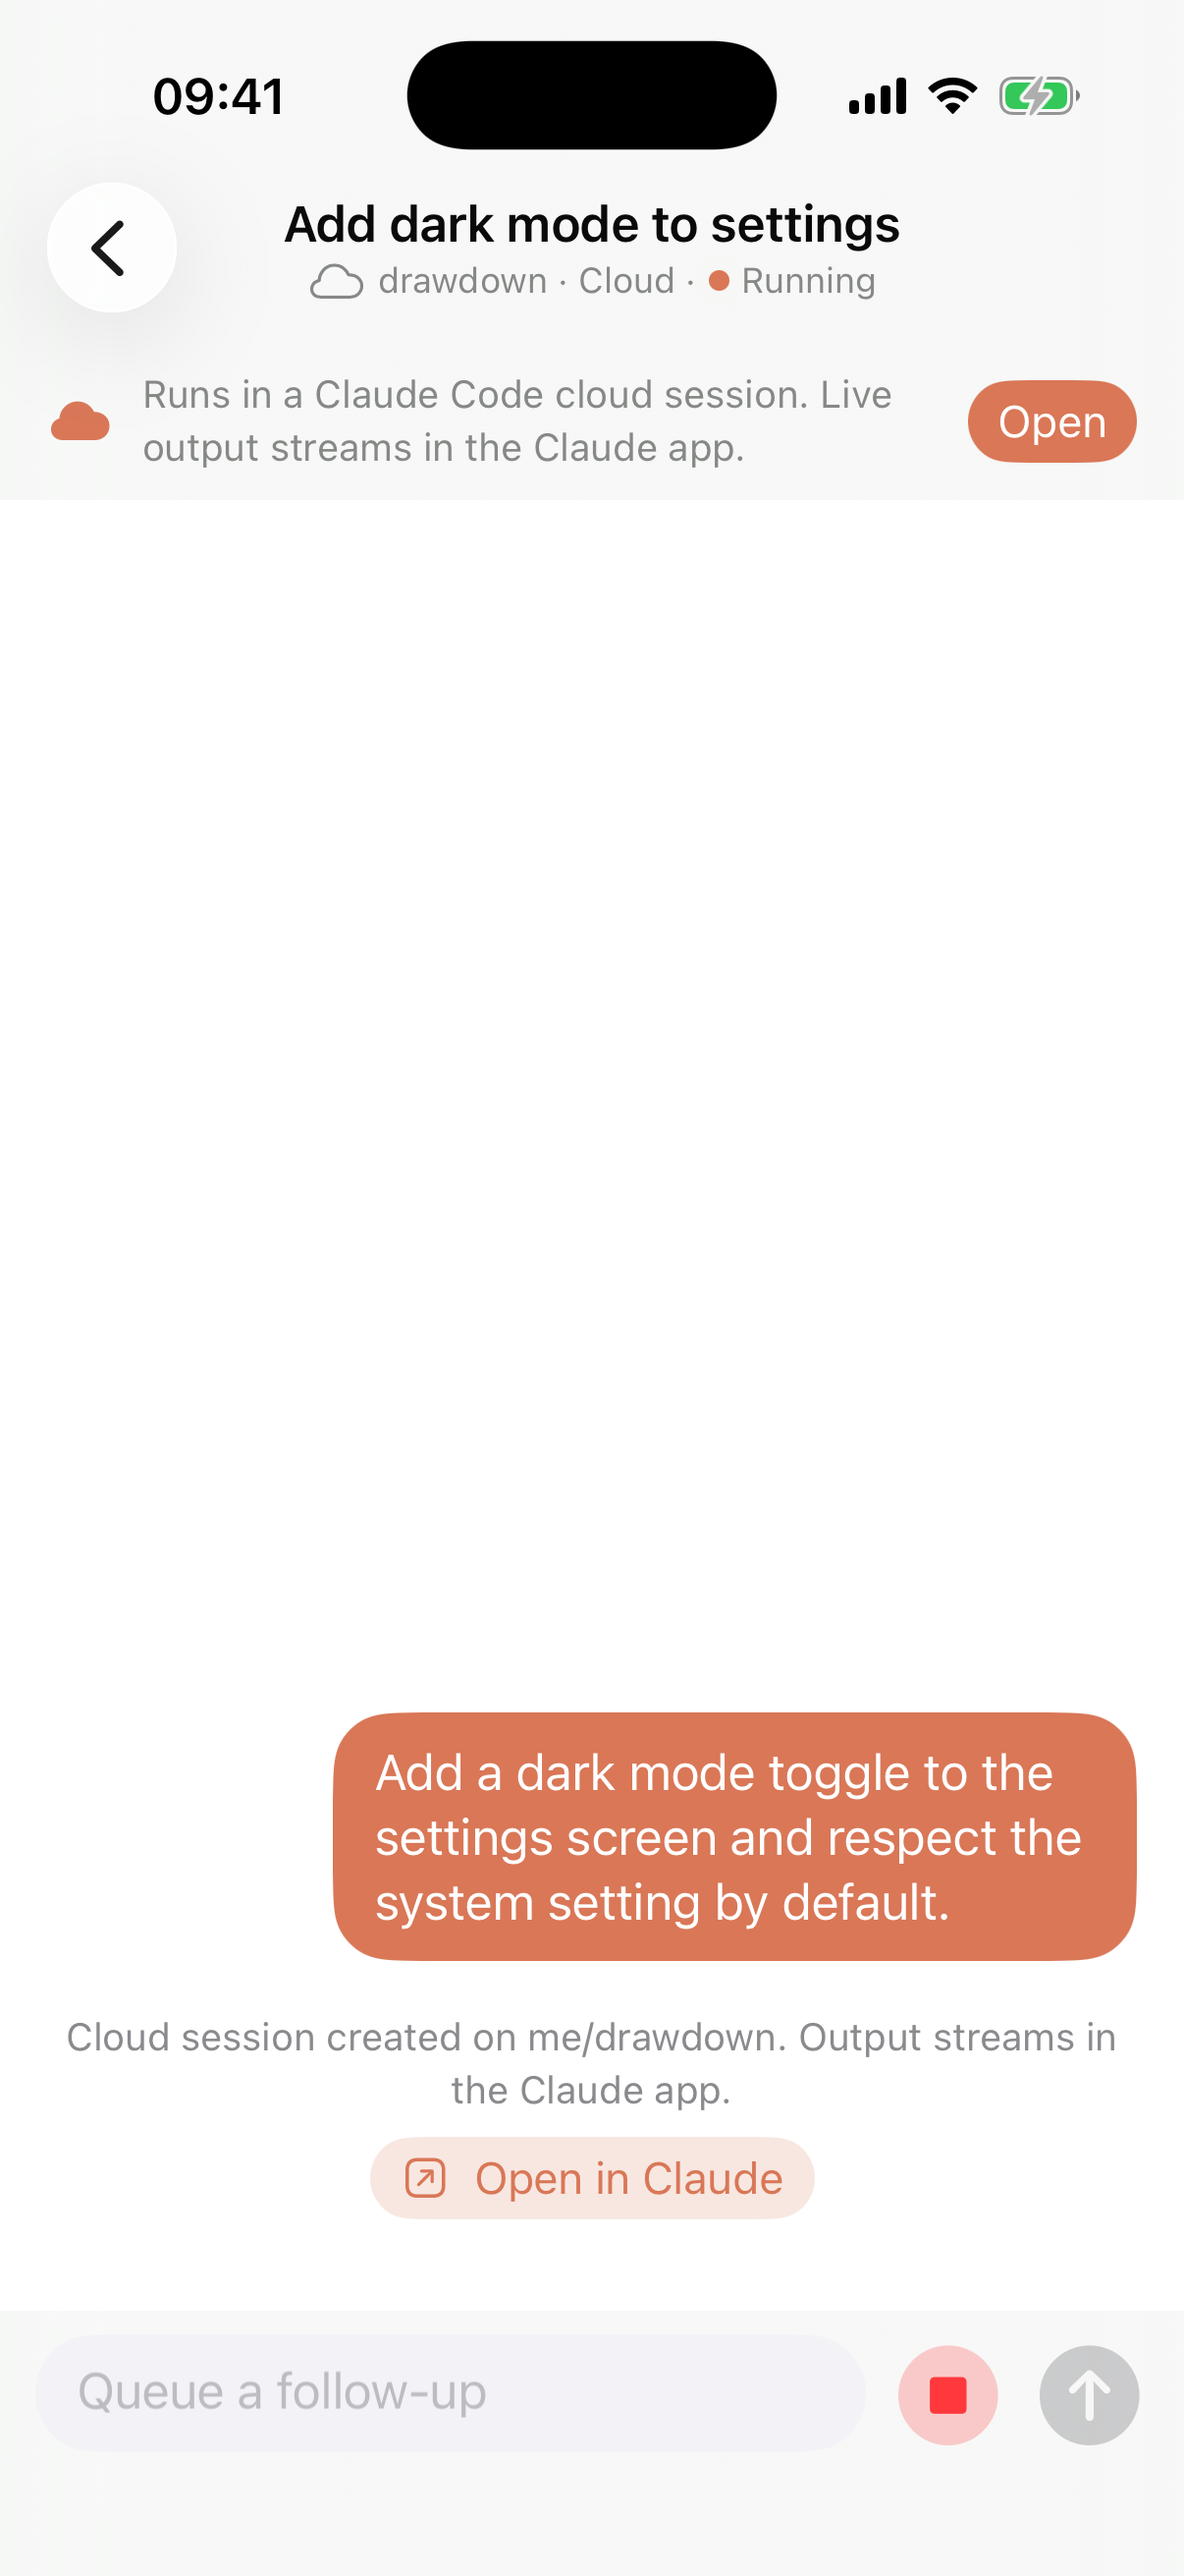
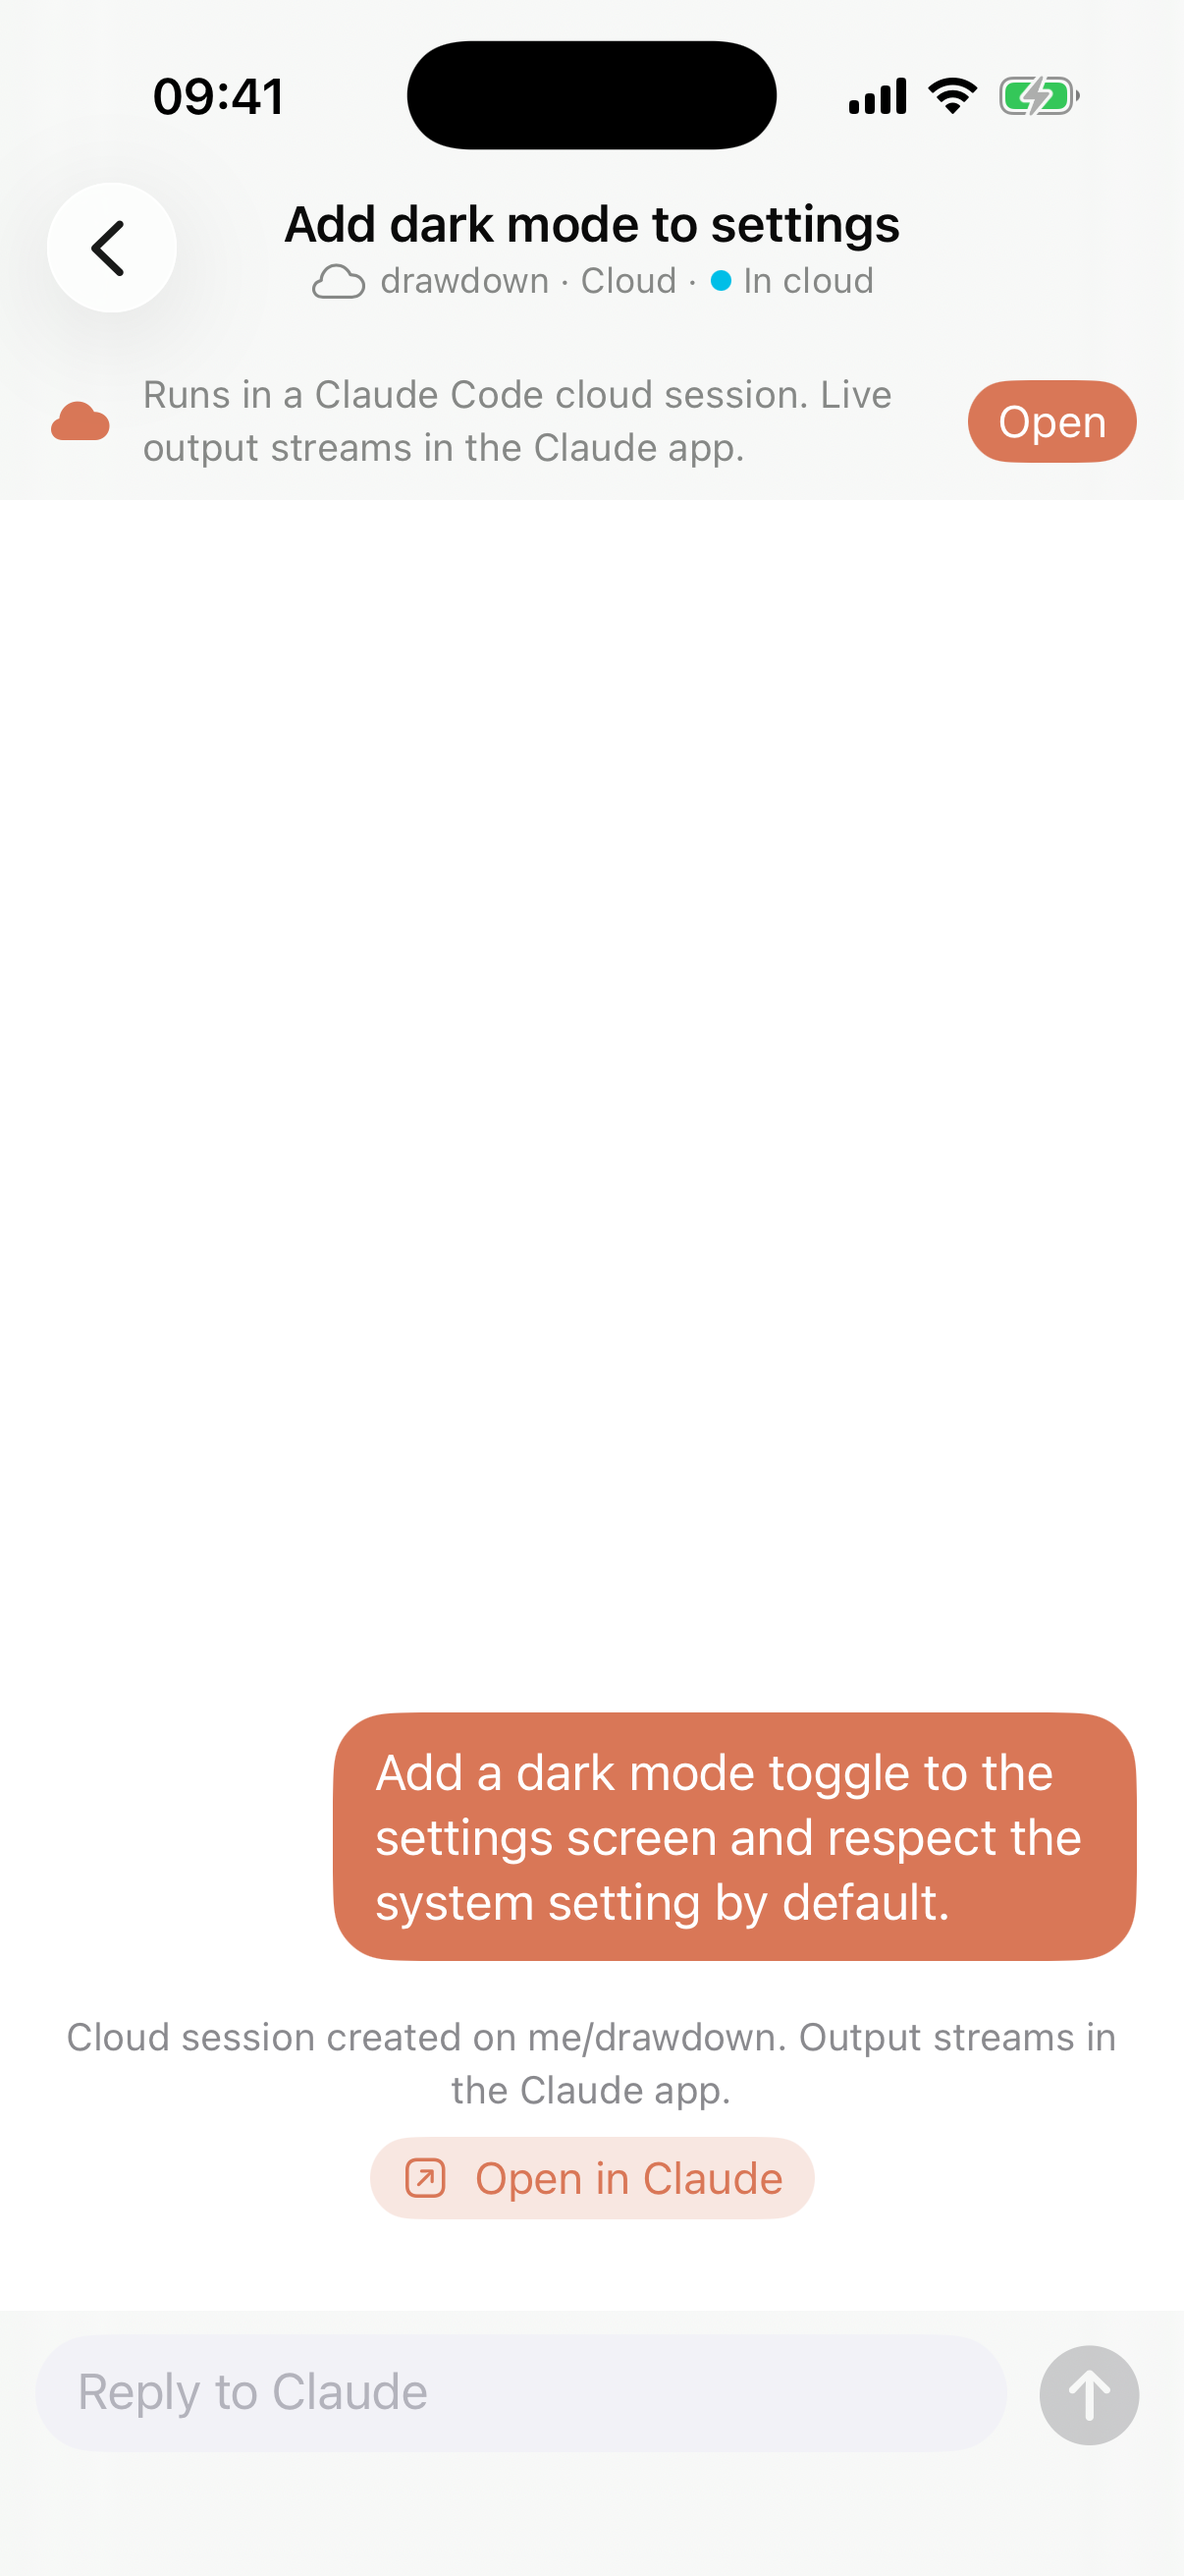
Show "In cloud" instead of "Done" for idle cloud tasks
The bridge marks a cloud task idle as soon as the session is created or a
follow-up is queued, so a green "Done" overstated it: the work runs in
claude.ai. StatusDisplay.of(status, on: target) is now the single place
that maps (status, target) to a label and tone; the home pill, task header
and finished notification all read it. Cloud idle stays in the Recent
group. The cloud demo task is now idle, matching what the bridge reports.

diff --git a/ios/ClaudeBotTests/StatusDisplayTests.swift b/ios/ClaudeBotTests/StatusDisplayTests.swift
@@ -1,0 +1,44 @@
+import Testing
+@testable import ClaudeBot
+
+@Suite struct StatusDisplayTests {
+    private let local = Target.local(ProjectID("p1"))
+    private let cloud = Target.cloud(ProjectID("p1"))
+
+    @Test func idleReadsDoneOnTheMacAndInCloudOnACloudTarget() {
+        #expect(StatusDisplay.of(.idle, on: local) == StatusDisplay(title: "Done", tone: .done))
+        #expect(StatusDisplay.of(.idle, on: cloud) == StatusDisplay(title: "In cloud", tone: .cloud))
+    }
+
+    @Test func everyOtherStatusReadsTheSameOnBothTargets() {
+        for status in [TaskStatus.running, .needsInput, .failed, .stopped] {
+            #expect(StatusDisplay.of(status, on: local) == StatusDisplay.of(status, on: cloud))
+        }
+    }
+
+    @Test func titlesAndTones() {
+        let rows: [(TaskStatus, String, StatusDisplay.Tone)] = [
+            (.running, "Running", .running),
+            (.needsInput, "Needs you", .attention),
+            (.failed, "Failed", .failed),
+            (.stopped, "Stopped", .stopped),
+        ]
+        for (status, title, tone) in rows {
+            #expect(StatusDisplay.of(status, on: local) == StatusDisplay(title: title, tone: tone))
+        }
+    }
+
+    @Test func onlyRunningPulses() {
+        #expect(StatusDisplay.of(.running, on: cloud).pulsing)
+        #expect(!StatusDisplay.of(.idle, on: cloud).pulsing)
+    }
+
+    @Test func aTaskSummaryUsesItsOwnTarget() {
+        let task = TaskSummary(
+            id: TaskID("t"), title: "T", target: cloud, projectName: "p", model: "opus",
+            permissionMode: .default, status: .idle, createdAt: .now, updatedAt: .now,
+            preview: "", costUsd: 0, cloudUrl: nil
+        )
+        #expect(task.statusDisplay.title == "In cloud")
+    }
+}

diff --git a/ios/ClaudeBot/Views/Components.swift b/ios/ClaudeBot/Views/Components.swift
@@ -34,26 +34,19 @@ extension PermissionMode {
     }
 }
 
-extension TaskStatus {
-    var title: String {
-        switch self {
-        case .running: "Running"
-        case .needsInput: "Needs you"
-        case .idle: "Done"
-        case .failed: "Failed"
-        case .stopped: "Stopped"
-        }
-    }
-
+extension StatusDisplay.Tone {
     var color: Color {
         switch self {
         case .running: .claude
-        case .needsInput: .yellow
-        case .idle: .green
+        case .attention: .yellow
+        case .done: .green
+        case .cloud: .cyan
         case .failed: .red
         case .stopped: .gray
         }
     }
+
+    var textColor: Color { self == .attention ? .primary : color }
 }
 
 enum ToolSymbol {
@@ -96,18 +89,18 @@ struct TargetBadge: View {
 }
 
 struct StatusPill: View {
-    let status: TaskStatus
+    let display: StatusDisplay
 
     var body: some View {
         HStack(spacing: 5) {
-            StatusDot(color: status.color, pulsing: status == .running)
-            Text(status.title)
+            StatusDot(color: display.tone.color, pulsing: display.pulsing)
+            Text(display.title)
         }
         .font(.caption2.weight(.semibold))
         .padding(.horizontal, 7)
         .padding(.vertical, 3)
-        .foregroundStyle(status == .needsInput ? Color.primary : status.color)
-        .background(status.color.opacity(0.16), in: Capsule())
+        .foregroundStyle(display.tone.textColor)
+        .background(display.tone.color.opacity(0.16), in: Capsule())
     }
 }
 

diff --git a/ios/ClaudeBotTests/StoreTests.swift b/ios/ClaudeBotTests/StoreTests.swift
@@ -4,9 +4,12 @@ import Testing
 
 private let at = Date(timeIntervalSince1970: 1_792_152_000)
 
-private func summary(_ id: String, _ status: TaskStatus, updated: TimeInterval = 0, title: String = "Task") -> TaskSummary {
+private func summary(
+    _ id: String, _ status: TaskStatus, updated: TimeInterval = 0, title: String = "Task",
+    target: Target = .local(ProjectID("p1"))
+) -> TaskSummary {
     TaskSummary(
-        id: TaskID(id), title: title, target: .local(ProjectID("p1")), projectName: "drawdown", model: "opus",
+        id: TaskID(id), title: title, target: target, projectName: "drawdown", model: "opus",
         permissionMode: .default, status: status, createdAt: at, updatedAt: at + updated,
         preview: "", costUsd: 0, cloudUrl: nil
     )
@@ -101,6 +104,13 @@ private func assistant(_ id: String, _ text: String) -> Item {
         let sections = HomeSection.make(from: tasks, matching: "")
         #expect(sections.map(\.kind) == [.needsYou, .running, .recent])
         #expect(sections.map { $0.tasks.map(\.id.rawValue) } == [["ask"], ["run-new", "run-old"], ["fail", "done"]])
+    }
+
+    @Test func idleCloudTasksStayInRecent() {
+        let tasks = [summary("c", .idle, target: .cloud(ProjectID("p1"))), summary("r", .running)]
+        let sections = HomeSection.make(from: tasks, matching: "")
+        #expect(sections.map(\.kind) == [.running, .recent])
+        #expect(sections.last?.tasks.map(\.id.rawValue) == ["c"])
     }
 
     @Test func searchFiltersAndDropsEmptySections() {

diff --git a/ios/ClaudeBot/Model/StatusDisplay.swift b/ios/ClaudeBot/Model/StatusDisplay.swift
@@ -1,0 +1,31 @@
+import Foundation
+
+/// How a task's status reads on screen. Every surface takes its label and tone from here.
+struct StatusDisplay: Equatable, Sendable {
+    enum Tone: Equatable, Sendable {
+        case running, attention, done, cloud, failed, stopped
+    }
+
+    let title: String
+    let tone: Tone
+
+    var pulsing: Bool { tone == .running }
+
+    /// A cloud session is never "done" from here: the bridge reports idle as soon as it is dispatched
+    /// or a follow-up is queued, and the work continues in claude.ai.
+    static func of(_ status: TaskStatus, on target: Target) -> StatusDisplay {
+        switch status {
+        case .running: StatusDisplay(title: "Running", tone: .running)
+        case .needsInput: StatusDisplay(title: "Needs you", tone: .attention)
+        case .idle: target.isCloud
+            ? StatusDisplay(title: "In cloud", tone: .cloud)
+            : StatusDisplay(title: "Done", tone: .done)
+        case .failed: StatusDisplay(title: "Failed", tone: .failed)
+        case .stopped: StatusDisplay(title: "Stopped", tone: .stopped)
+        }
+    }
+}
+
+extension TaskSummary {
+    var statusDisplay: StatusDisplay { .of(status, on: target) }
+}

diff --git a/ios/ClaudeBot/Demo/Demo.swift b/ios/ClaudeBot/Demo/Demo.swift
@@ -37,7 +37,7 @@ enum Demo {
     static let tasks: [TaskSummary] = [
         task("t1", "Fix the login redirect loop", .local(ProjectID("p1")), "drawdown", .needsInput, 2,
              "I need to edit src/auth.ts to clear the stale session cookie."),
-        task("t2", "Add dark mode to settings", .cloud(ProjectID("p1")), "drawdown", .running, 6,
+        task("t2", "Add dark mode to settings", .cloud(ProjectID("p1")), "drawdown", .idle, 6,
              "Cloud session started. Follow along in the Claude app.",
              cloudUrl: URL(string: "https://claude.ai/code/session_01")),
         task("t3", "Bump Bun and fix type errors", .local(ProjectID("p2")), "api-server", .running, 1,

diff --git a/ios/ClaudeBot/Views/TaskView.swift b/ios/ClaudeBot/Views/TaskView.swift
@@ -134,8 +134,9 @@ private struct TaskHeader: View {
             HStack(spacing: 4) {
                 Image(systemName: task.target.isCloud ? "cloud" : "laptopcomputer")
                 Text("\(task.projectName) · \(task.target.isCloud ? "Cloud" : "Mac") ·")
-                StatusDot(color: task.status.color, pulsing: task.status == .running)
-                Text(task.status.title)
+                let display = task.statusDisplay
+                StatusDot(color: display.tone.color, pulsing: display.pulsing)
+                Text(display.title)
             }
             .font(.caption)
             .foregroundStyle(.secondary)

diff --git a/ios/ClaudeBot/App/Notifier.swift b/ios/ClaudeBot/App/Notifier.swift
@@ -67,7 +67,8 @@ final class Notifier: NSObject, UNUserNotificationCenterDelegate {
         case .needsInput:
             content.body = "Claude is waiting for you."
         case .finished:
-            content.body = task.preview.isEmpty ? "Done." : "Done: \(task.preview)"
+            let label = task.statusDisplay.title
+            content.body = task.preview.isEmpty ? "\(label)." : "\(label): \(task.preview)"
         case .failed:
             content.body = task.preview.isEmpty ? "The task failed." : "Failed: \(task.preview)"
         }

diff --git a/ios/ClaudeBot/Views/HomeView.swift b/ios/ClaudeBot/Views/HomeView.swift
@@ -95,7 +95,7 @@ struct TaskRow: View {
                     .lineLimit(2)
             }
             HStack(spacing: 6) {
-                StatusPill(status: task.status)
+                StatusPill(display: task.statusDisplay)
                 TargetBadge(target: task.target)
                 Text(task.projectName)
                     .font(.caption)
